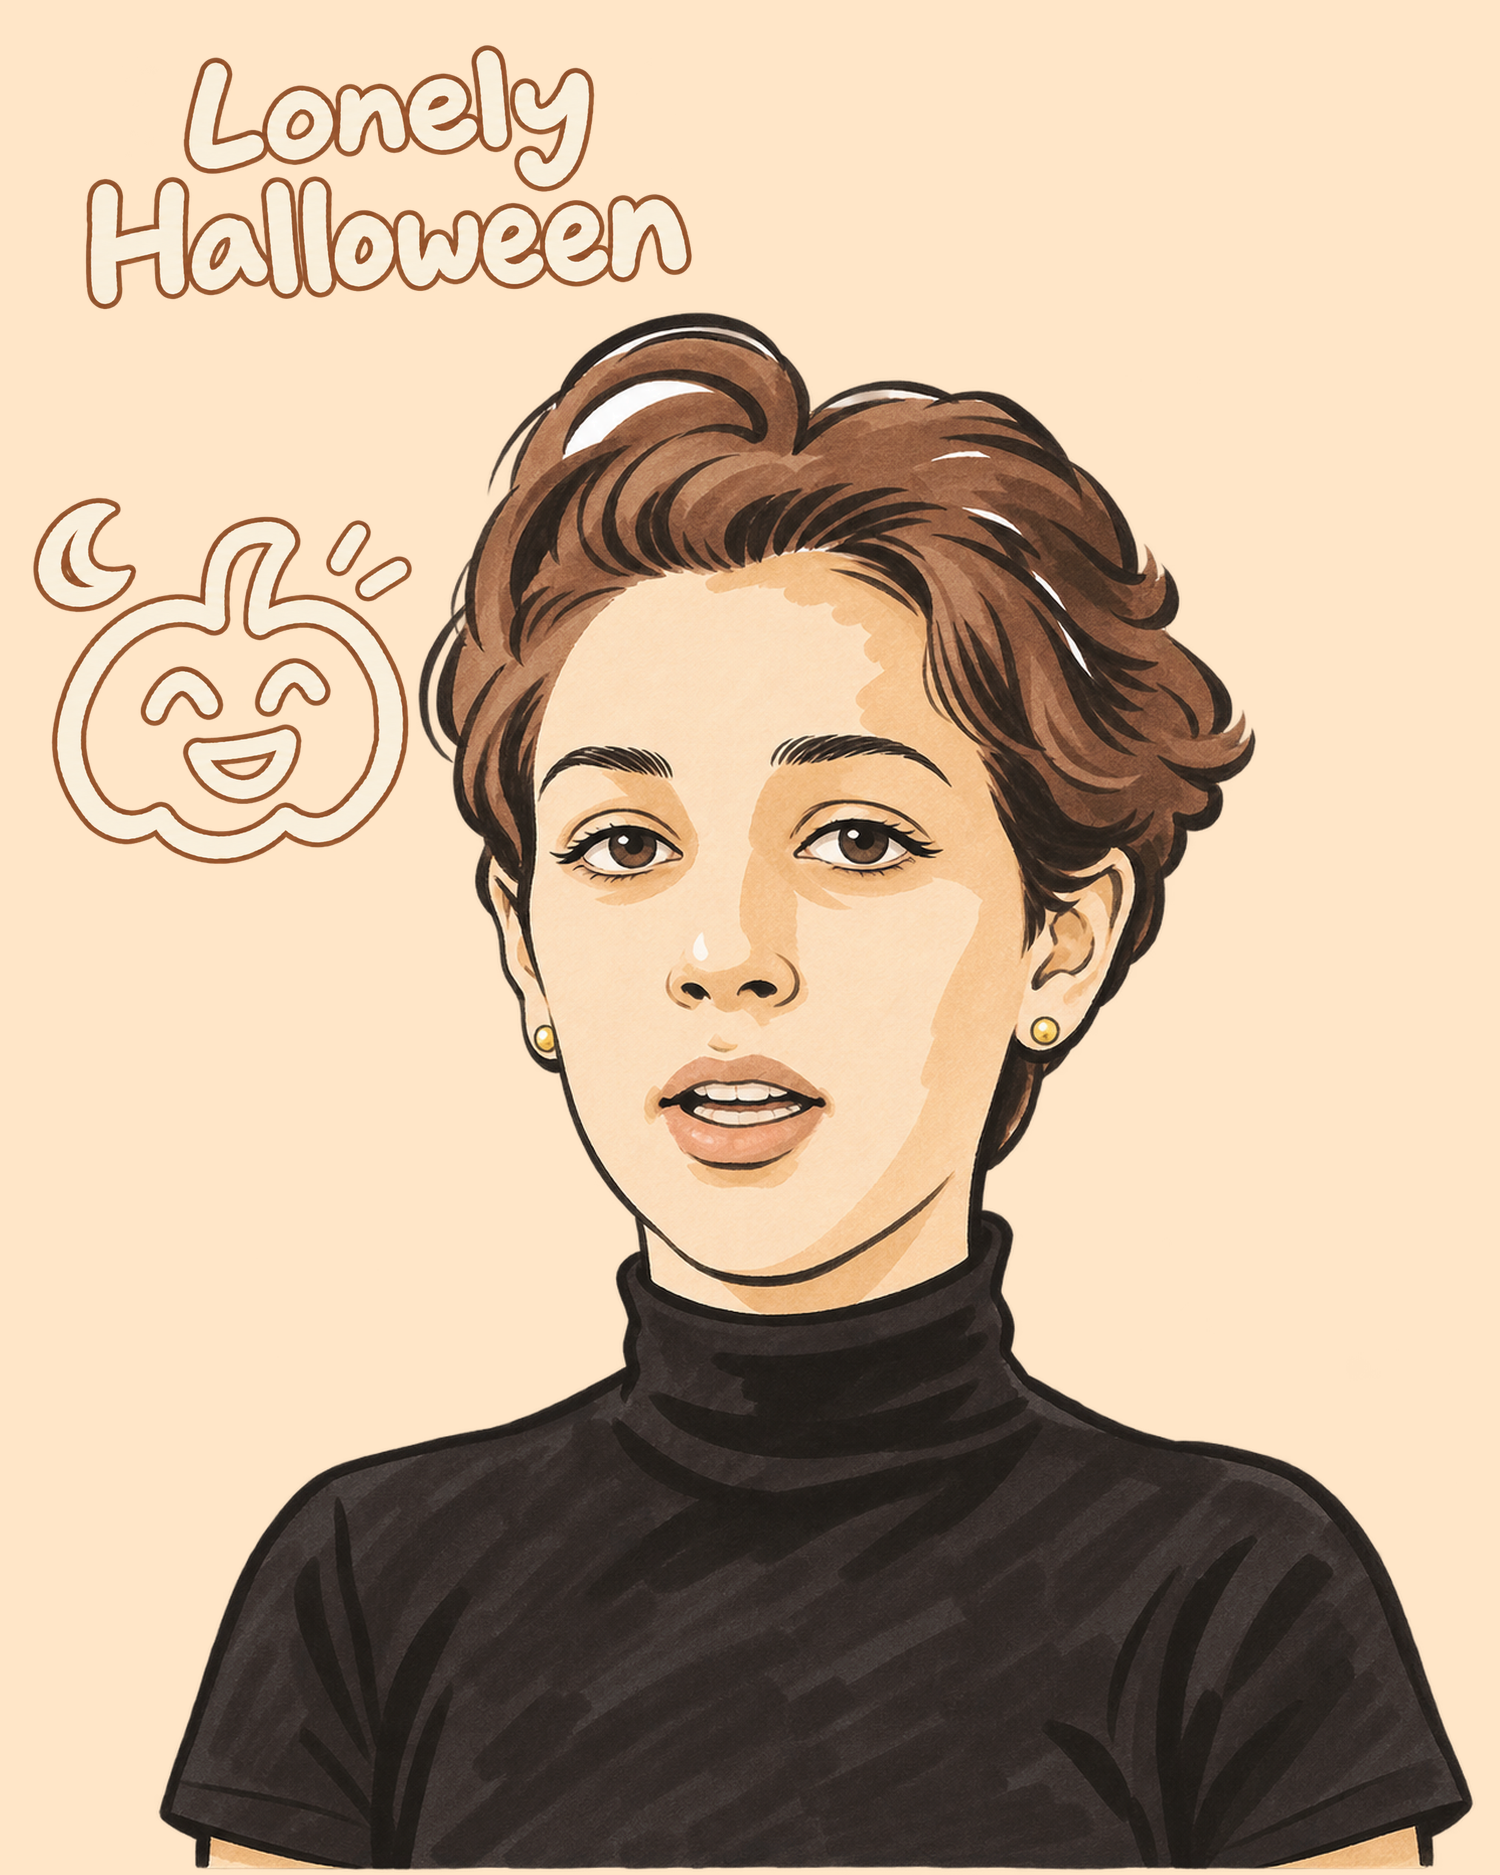
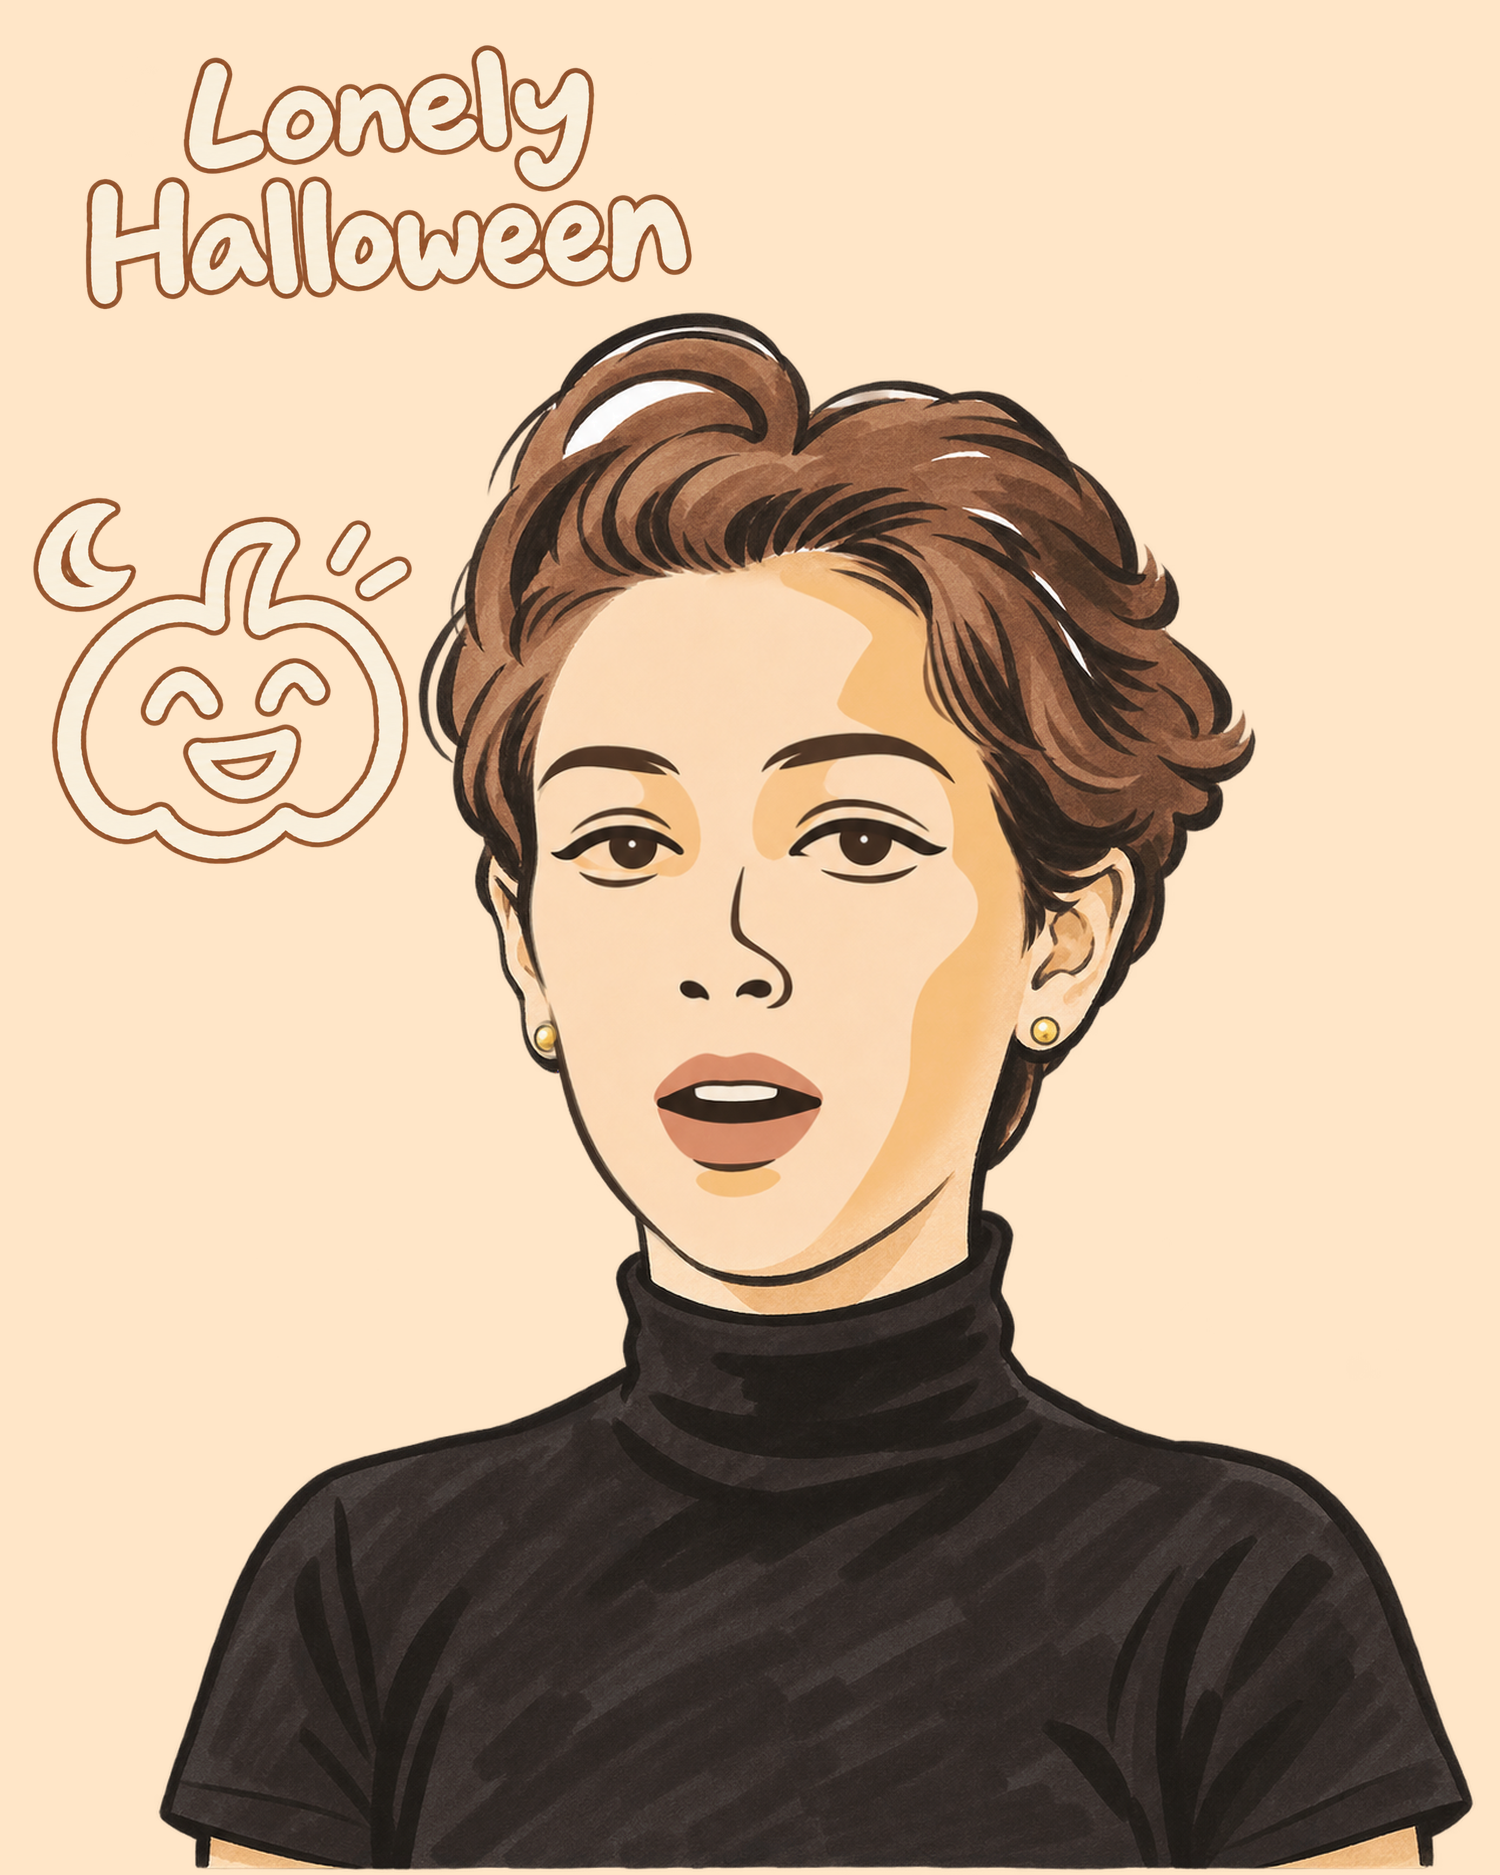
Align the demo gallery and refine holiday faces

diff --git a/README.md b/README.md
@@ -11,19 +11,15 @@
 3. 给出 1–3 组装饰文字或图标描述，也可跳过装饰。文字和图标用醒目的马克笔贴图，描边随画面取色。输入齐备时可以一次说明。
 4. 查看独立透明 PNG 和拼接稿。改景、改字或调整位置时可直接复用人物层。
 
-## 成品示例 · 张三
+## 成品示例
+
+| [张三](examples/zhang-san.png) | [Lonely Halloween](examples/lonely-halloween.png) | [刘德华 · 恭喜发财](examples/andy-lau-gong-xi-fa-cai.png) |
+| --- | --- | --- |
+| <img src="examples/zhang-san.png" width="250" alt="张三的个人手绘肖像"> | <img src="examples/lonely-halloween.png" width="250" alt="Lonely Halloween 手绘肖像"> | <img src="examples/andy-lau-gong-xi-fa-cai.png" width="250" alt="刘德华恭喜发财手绘肖像"> |
+| 湖畔白桦与咖啡杯贴图 | 暖橙纸底、棕橙描边标题与南瓜贴图 | 牡丹场景、朱红描边标题与灯笼贴图 |
 
 张三是虚构的 AI 研究者。这张个人画像使用[生成的参考照](examples/zhang-san-source.jpg)。
 
 > 用 $handdrawn-portrait-kit 画张三的个人手绘画像。保留正面头部姿态、圆眼镜、橄榄绿开衫和手持笔记本的动作。风景用参考照里的白桦和湖边步道。装饰用大号奶白马克笔咖啡杯贴图和深橄榄细描边，采用竖幅。
-
-![张三的个人手绘肖像成品](examples/zhang-san.png)
-
-## 节日贴图示例
-
-| Lonely Halloween | 刘德华 · 恭喜发财 |
-| --- | --- |
-| <img src="examples/lonely-halloween.png" width="300" alt="Lonely Halloween 手绘肖像"> | <img src="examples/andy-lau-gong-xi-fa-cai.png" width="360" alt="刘德华恭喜发财手绘肖像"> |
-| 暖橙纸底、棕橙描边标题与南瓜贴图 | 牡丹场景、朱红描边标题与灯笼贴图 |
 
 可查看[贴图参考](assets/decoration-style.png)、[面部勾线参考](assets/face-linework-example.png)、[色卡](assets/portrait-palette.png)、[笔法参考](assets/portrait-technique.png)和[五款框线](assets/layout-templates/overview.png)。完整流程见 [SKILL.md](SKILL.md)。本地拼接已有图层需要 Python 和 Pillow，命令和布局格式见[拼接说明](references/decoration-and-layout.md#本地拼接)。
